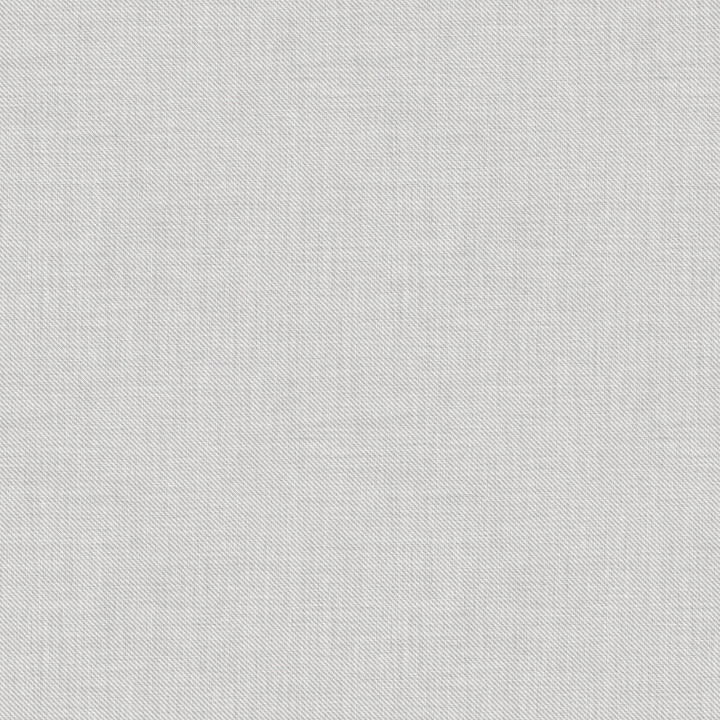
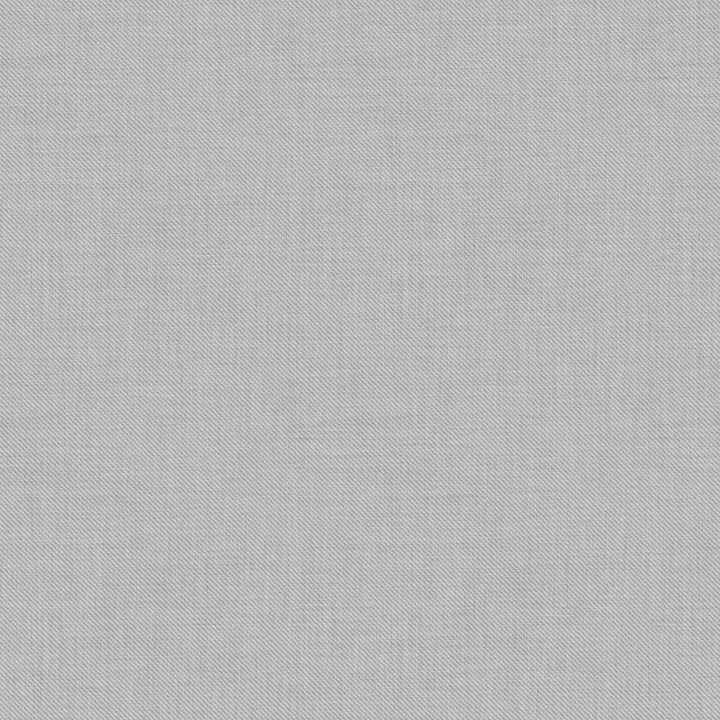
added ids on the Works table and use those for url nav instead of titles. working add work button and form.

diff --git a/app.js b/app.js
@@ -20,7 +20,7 @@ app.set("view engine", "ejs");
 app.use(methodOverride("_method"));
 app.use(express.static(__dirname + "/public"));
 
-seedDB(connection);
+//seedDB(connection);
 
 // PASSPORT CONFIGURATION
 
@@ -77,27 +77,48 @@ app.get("/", function(request, response) {
 
 // Works and Gallery
 
+// index
+
 app.get("/works", function(request, response) {
 	connection.query("SELECT * FROM Works", function(error, rows, fields) {
 		response.render("work/index", {works:rows});
 	});
 });
 
-app.get("/works/:title", function(request, response) {
-	connection.query("SELECT * FROM Works WHERE title = '" + request.params.title + "'", function(error, rows, fields) {
+// new
+
+app.get("/works/new", function(request, response) {
+	response.render("work/new");
+});
+
+app.post("/works", function(request, response) {
+	var new_query = "INSERT INTO Works (title, image, width, height, info) VALUES (";
+	var data = "'" + request.body.title + "','" + request.body.image_url + "'," + request.body.width + "," + request.body.height + ",'" + request.body.info + "'";
+	new_query = new_query + data + ")";
+	connection.query(new_query, function(error, rows, fields) {
+		response.redirect("/works");
+	});
+});
+
+// show
+
+app.get("/works/:id", function(request, response) {
+	connection.query("SELECT * FROM Works WHERE id='" + request.params.id + "'", function(error, rows, fields) {
 		response.render("work/show", {work:rows[0]});
 	});
 });
 
-app.get("/works/:title/edit", function(request, response) {
-	connection.query("SELECT * FROM Works WHERE title = '" + request.params.title + "'", function(error, rows, fields) {
+// edit
+
+app.get("/works/:id/edit", function(request, response) {
+	connection.query("SELECT * FROM Works WHERE id='" + request.params.id + "'", function(error, rows, fields) {
 		response.render("work/edit", {work:rows[0]});
 	});
 })
 
-app.put("/works/:title", function(request, response) {
+app.put("/works/:id", function(request, response) {
 	
-	connection.query("UPDATE Works SET title='" + request.body.title + "', image='" + request.body.image_url + "', info='" + request.body.info + "' WHERE title = '" + request.params.title + "'", function(error) {
+	connection.query("UPDATE Works SET title='" + request.body.title + "', image='" + request.body.image_url + "', info='" + request.body.info + "' WHERE id='" + request.params.id + "'", function(error) {
 		if (error) {
 			console.log(error);
 		} else {

diff --git a/public/stylesheets/main.css b/public/stylesheets/main.css
@@ -5,7 +5,7 @@
 .thumbnail {
 	position: relative;
 	border: 0;
-    padding: 0;
+	padding: 0;
 }
 
 .work-container {
@@ -18,11 +18,13 @@
 	max-height: 580px;
 	margin-bottom: 20px;
 	padding: 0;
-	border: 20px solid black;
+	box-shadow: 8px 8px 15px #595959;
+	border: 3px solid black;
 }
 
 .preview-img {
-	border: 6px solid black;
+	box-shadow: 6px 6px 15px #595959;
+	border: 2px solid black;
 }
 
 .thumbnail .caption-full {
@@ -64,7 +66,7 @@ textarea {
 }
 
 body {
-	background-image: url("../images/graywood.jpg");
+	background-image: url("../images/grayfabric.jpg");
 	color: white;
 }
 
@@ -139,6 +141,25 @@ a.darken:hover img {
 	
 }
 
+#edit-link:hover {
+	background-color: #cccc00
+}
+
+#add-link {
+	color: black;
+	background-color: white;
+	padding-top: 5px;
+	padding-bottom: 5px;
+	padding-left: 10px;
+	padding-right: 10px;
+	margin-top: 10px;
+	
+}
+
+#add-link:hover {
+	background-color: #ccc;
+}
+
 #delete-link {
 	color: black;
 	background-color: red;
@@ -146,6 +167,10 @@ a.darken:hover img {
 	padding-bottom: 5px;
 	padding-left: 10px;
 	padding-right: 10px;
+}
+
+#delete-link:hover {
+	background-color: #cc0000
 }
 
 #delete-form {

diff --git a/seed.js b/seed.js
@@ -20,7 +20,7 @@ function seedDB(connection) {
 		}
 		
 		// create Works table
-		connection.query("CREATE TABLE Works (title VARCHAR(30), image VARCHAR(255), width FLOAT(16), height FLOAT(16), type VARCHAR(16), info VARCHAR(1024))");
+		connection.query("CREATE TABLE Works (id INT PRIMARY KEY AUTO_INCREMENT NOT NULL, title VARCHAR(30), image VARCHAR(255), width FLOAT(16), height FLOAT(16), type VARCHAR(16), info VARCHAR(1024))");
 		// insert new data
 		connection.query("INSERT INTO Works (title, image, width, height, info) VALUES ('Path Through Woods', 'https://scontent-sjc2-1.xx.fbcdn.net/v/t1.0-9/13077069_611152469032084_4995991597519597704_n.jpg?oh=7e9c2da1265d6207b13f4e59252471dd&oe=57ACE9E8', 6, 4, 'This is Dusk')");
 		connection.query("INSERT INTO Works (title, image, width, height, info) VALUES ('Four Happy Sheep', 'https://scontent-sjc2-1.xx.fbcdn.net/v/t1.0-9/13051737_612315275582470_6500075902303540450_n.jpg?oh=e2530af2e20250e3a9d9053dd16df10c&oe=579A2A25', 6, 4, 'This is Dawn')");
